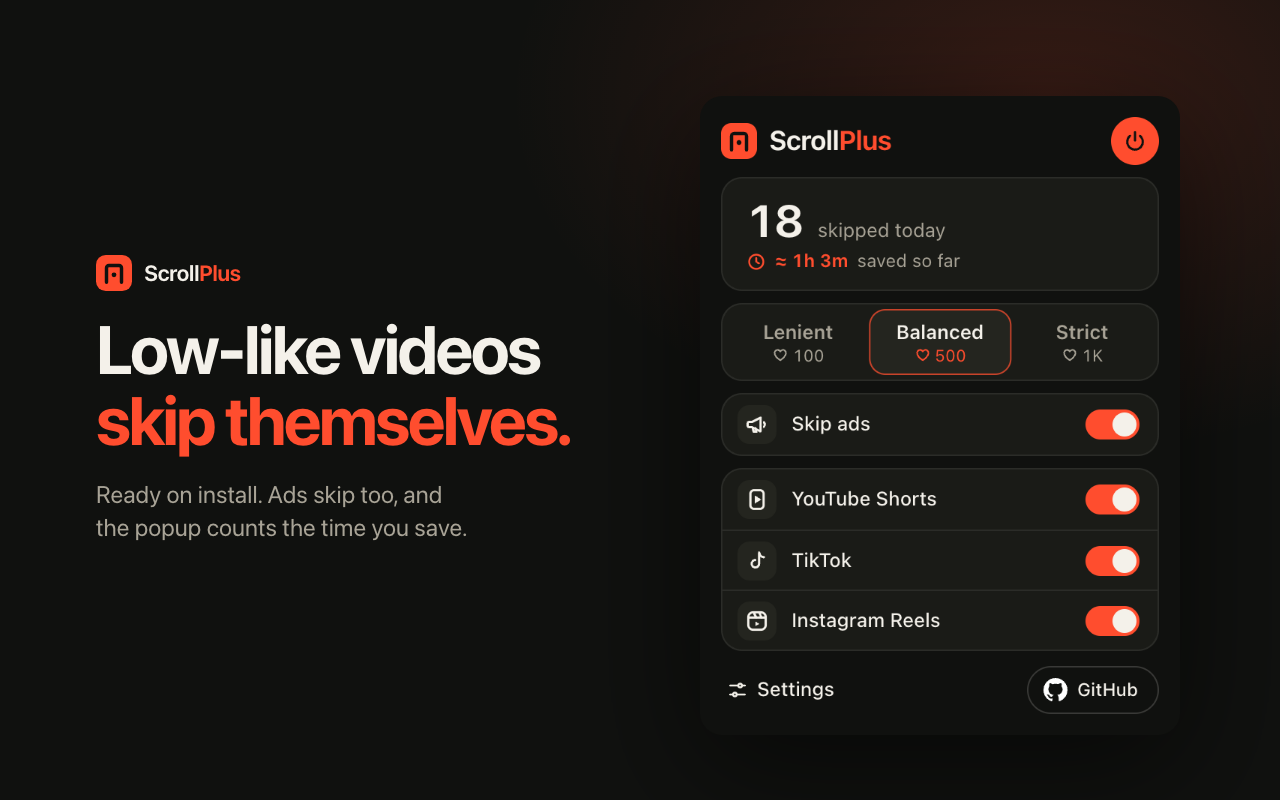
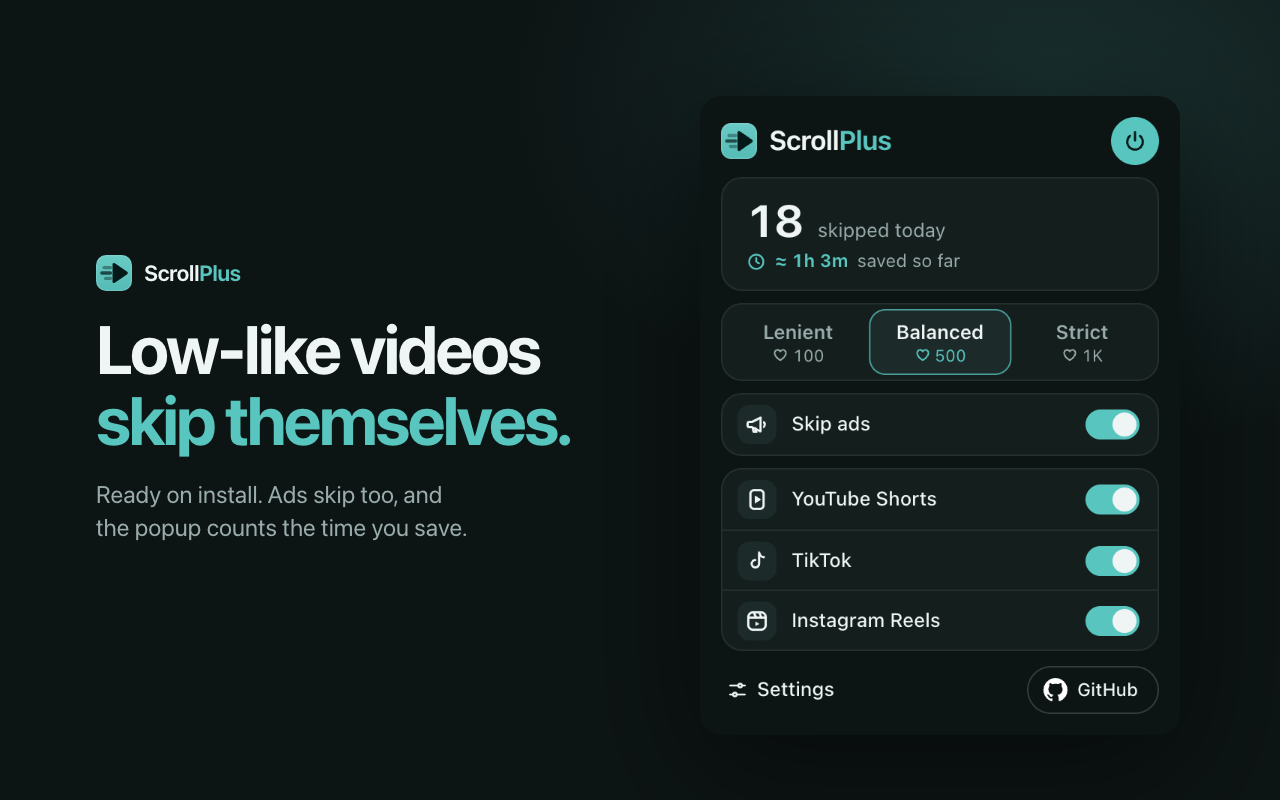
New mark and a calm teal accent picked at one lightness and chroma (0.6.0)
The mark is three streaks behind a play triangle in place of the door. The accent is teal at OKLCH 0.76 / 0.10 in place of the orange-red, and the dark surfaces take its hue. Skipping, settings, storage and permissions are unchanged.

diff --git a/src/ui/app.css b/src/ui/app.css
@@ -1,13 +1,15 @@
 :root {
-  --bg: #10110F;
-  --surface: #1A1B17;
-  --surface-2: #24251F;
-  --line: rgba(244, 241, 234, 0.08);
-  --line-strong: rgba(244, 241, 234, 0.18);
-  --text: #F4F1EA;
-  --muted: #A8A396;
-  --accent: #FF4D2E;
-  --accent-ink: #10110F;
+  --bg: #0D1414;
+  --surface: #131E1D;
+  --surface-2: #1C2B2A;
+  --line: rgba(238, 245, 244, 0.08);
+  --line-strong: rgba(238, 245, 244, 0.18);
+  --text: #EEF5F4;
+  --muted: #99ACAB;
+  --accent: #59C5BF;
+  --accent-hover: #6AD6CF;
+  --accent-rgb: 89, 197, 191;
+  --accent-ink: #031A19;
   --ease: cubic-bezier(0.2, 0.8, 0.2, 1);
   --t: 180ms;
   --font: ui-sans-serif, system-ui, -apple-system, "Apple SD Gothic Neo", "Segoe UI", sans-serif;
@@ -31,7 +33,7 @@ h1, h2, p { margin: 0; }
 .power { width: 32px; height: 32px; border-radius: 50%; border: 1px solid var(--line-strong); background: transparent; color: var(--muted); display: grid; place-items: center; transition: background var(--t) var(--ease), color var(--t) var(--ease), border-color var(--t) var(--ease); }
 .power:hover { border-color: var(--text); color: var(--text); }
 .power.on { background: var(--accent); border-color: var(--accent); color: var(--accent-ink); }
-.power.on:hover { background: #FF6446; border-color: #FF6446; color: var(--accent-ink); }
+.power.on:hover { background: var(--accent-hover); border-color: var(--accent-hover); color: var(--accent-ink); }
 .power.wide { display: inline-flex; align-items: center; justify-content: center; width: auto; padding: 0 14px 0 11px; gap: 7px; border-radius: 99px; height: 36px; font-size: 13px; font-weight: 600; white-space: nowrap; }
 
 .hero { display: flex; flex-direction: column; justify-content: center; gap: 5px; height: 76px; padding: 0 16px; background: var(--surface); border: 1px solid var(--line); border-radius: 14px; }
@@ -52,7 +54,7 @@ h1, h2, p { margin: 0; }
 .stats-note { color: var(--muted); font-size: 12px; line-height: 1.5; }
 
 .presets { position: relative; display: grid; grid-template-columns: repeat(3, 1fr); padding: 3px; background: var(--surface); border: 1px solid var(--line); border-radius: 14px; }
-.presets .thumb-slide { position: absolute; top: 3px; bottom: 3px; left: 3px; width: calc((100% - 6px) / 3); border-radius: 11px; background: var(--surface-2); box-shadow: inset 0 0 0 1px rgba(255, 77, 46, 0.75); transition: transform var(--t) var(--ease), opacity var(--t) var(--ease); pointer-events: none; }
+.presets .thumb-slide { position: absolute; top: 3px; bottom: 3px; left: 3px; width: calc((100% - 6px) / 3); border-radius: 11px; background: var(--surface-2); box-shadow: inset 0 0 0 1px rgba(var(--accent-rgb), 0.75); transition: transform var(--t) var(--ease), opacity var(--t) var(--ease); pointer-events: none; }
 .preset { position: relative; z-index: 1; height: 44px; border: 0; border-radius: 11px; background: none; color: var(--muted); display: flex; flex-direction: column; align-items: center; justify-content: center; gap: 3px; transition: color var(--t) var(--ease); }
 .preset:hover { color: var(--text); }
 .preset strong { font-size: 13px; font-weight: 600; line-height: 1; }
@@ -93,7 +95,7 @@ h1, h2, p { margin: 0; }
 
 .link { display: inline-flex; align-items: center; gap: 6px; min-height: 32px; padding: 6px 4px; border: 0; border-radius: 8px; background: none; font-size: 13px; font-weight: 500; transition: color var(--t) var(--ease); }
 .link:hover { color: var(--accent); }
-.badge { padding: 2px 7px; border-radius: 99px; background: rgba(255, 77, 46, 0.16); color: var(--accent); font-size: 11px; font-weight: 600; }
+.badge { padding: 2px 7px; border-radius: 99px; background: rgba(var(--accent-rgb), 0.16); color: var(--accent); font-size: 11px; font-weight: 600; }
 .github { display: inline-flex; align-items: center; gap: 7px; height: 32px; padding: 0 13px 0 10px; border: 1px solid var(--line-strong); border-radius: 99px; color: var(--text); text-decoration: none; font-size: 12px; font-weight: 500; transition: border-color var(--t) var(--ease), background var(--t) var(--ease); }
 /* GitHub asks for its mark in white or black, unchanged. */
 .github .icon { color: #fff; }

diff --git a/src/content/chip.ts b/src/content/chip.ts
@@ -11,21 +11,21 @@ const CSS = [
   ":host { all: initial; }",
   "*, *::before, *::after { box-sizing: border-box; }",
   // A dark body keeps the words readable on any video. The accent border and glow keep the chip itself visible on a dark one.
-  ".chip { position: relative; font: 600 15px/1.2 ui-sans-serif, system-ui, -apple-system, 'Apple SD Gothic Neo', 'Segoe UI', sans-serif; color: #F4F1EA; background: #10110F; border: 1.5px solid #FF4D2E; border-radius: 999px; padding: 8px 8px 8px 10px; display: flex; gap: 12px; align-items: center; box-shadow: 0 0 22px rgba(255, 77, 46, 0.5), 0 12px 30px rgba(0, 0, 0, 0.55); animation: in 120ms ease-out both; white-space: nowrap; }",
+  ".chip { position: relative; font: 600 15px/1.2 ui-sans-serif, system-ui, -apple-system, 'Apple SD Gothic Neo', 'Segoe UI', sans-serif; color: #EEF5F4; background: #0D1414; border: 1.5px solid #59C5BF; border-radius: 999px; padding: 8px 8px 8px 10px; display: flex; gap: 12px; align-items: center; box-shadow: 0 0 22px rgba(89, 197, 191, 0.4), 0 12px 30px rgba(0, 0, 0, 0.55); animation: in 120ms ease-out both; white-space: nowrap; }",
   // One ring that widens and fades when the chip appears, to catch the eye without moving the chip.
-  ".chip::after { content: ''; position: absolute; inset: -1.5px; border: 2px solid #FF4D2E; border-radius: inherit; pointer-events: none; animation: ping 700ms ease-out both; }",
+  ".chip::after { content: ''; position: absolute; inset: -1.5px; border: 2px solid #59C5BF; border-radius: inherit; pointer-events: none; animation: ping 700ms ease-out both; }",
   ".chip.leaving { animation: out 200ms ease-out both; }",
   ".chip.leaving::after { display: none; }",
   ".chip.stack { flex-direction: column; align-items: stretch; border-radius: 20px; padding: 14px; gap: 12px; white-space: normal; max-width: 300px; }",
-  ".dot { width: 28px; height: 28px; border-radius: 50%; background: #FF4D2E; color: #10110F; display: grid; place-items: center; flex: none; }",
+  ".dot { width: 28px; height: 28px; border-radius: 50%; background: #59C5BF; color: #031A19; display: grid; place-items: center; flex: none; }",
   ".dot svg { display: block; }",
   ".label { font-variant-numeric: tabular-nums; }",
   ".actions { display: flex; gap: 8px; }",
-  "button { font: inherit; font-weight: 600; color: #F4F1EA; background: rgba(244, 241, 234, 0.12); border: 0; border-radius: 999px; min-height: 34px; padding: 8px 15px; display: inline-flex; align-items: center; justify-content: center; gap: 6px; cursor: pointer; transition: background 180ms ease-out; }",
-  "button:hover { background: rgba(244, 241, 234, 0.18); }",
-  "button:focus-visible { outline: 2px solid #FF4D2E; outline-offset: 2px; }",
-  "button.primary { background: #FF4D2E; color: #10110F; }",
-  "button.primary:hover { background: #FF6446; }",
+  "button { font: inherit; font-weight: 600; color: #EEF5F4; background: rgba(238, 245, 244, 0.12); border: 0; border-radius: 999px; min-height: 34px; padding: 8px 15px; display: inline-flex; align-items: center; justify-content: center; gap: 6px; cursor: pointer; transition: background 180ms ease-out; }",
+  "button:hover { background: rgba(238, 245, 244, 0.18); }",
+  "button:focus-visible { outline: 2px solid #59C5BF; outline-offset: 2px; }",
+  "button.primary { background: #59C5BF; color: #031A19; }",
+  "button.primary:hover { background: #6AD6CF; }",
   "@keyframes in { from { opacity: 0; transform: scale(0.96); } to { opacity: 1; transform: none; } }",
   "@keyframes ping { from { inset: -1.5px; opacity: 0.85; } to { inset: -11px; opacity: 0; } }",
   "@keyframes out { from { opacity: 1; } to { opacity: 0; } }",
@@ -171,7 +171,7 @@ export function mountChip(actions: { undo: () => void; keepGoing: () => void; lo
       if (model.mode === "skipped") {
         const dot = document.createElement("span");
         dot.className = "dot";
-        dot.append(svgIcon("forward", 12));
+        dot.append(svgIcon("streak", 16));
         const label = document.createElement("span");
         label.className = "label";
         label.textContent = skippedLabel(model);

diff --git a/qa/screenshots/review-060/chip.html b/qa/screenshots/review-060/chip.html
@@ -1,0 +1,20 @@
+<style>:host { all: initial; }
+*, *::before, *::after { box-sizing: border-box; }
+.chip { position: relative; font: 600 15px/1.2 ui-sans-serif, system-ui, -apple-system, 'Apple SD Gothic Neo', 'Segoe UI', sans-serif; color: #EEF5F4; background: #0D1414; border: 1.5px solid #59C5BF; border-radius: 999px; padding: 8px 8px 8px 10px; display: flex; gap: 12px; align-items: center; box-shadow: 0 0 22px rgba(89, 197, 191, 0.4), 0 12px 30px rgba(0, 0, 0, 0.55); animation: in 120ms ease-out both; white-space: nowrap; }
+.chip::after { content: ''; position: absolute; inset: -1.5px; border: 2px solid #59C5BF; border-radius: inherit; pointer-events: none; animation: ping 700ms ease-out both; }
+.chip.leaving { animation: out 200ms ease-out both; }
+.chip.leaving::after { display: none; }
+.chip.stack { flex-direction: column; align-items: stretch; border-radius: 20px; padding: 14px; gap: 12px; white-space: normal; max-width: 300px; }
+.dot { width: 28px; height: 28px; border-radius: 50%; background: #59C5BF; color: #031A19; display: grid; place-items: center; flex: none; }
+.dot svg { display: block; }
+.label { font-variant-numeric: tabular-nums; }
+.actions { display: flex; gap: 8px; }
+button { font: inherit; font-weight: 600; color: #EEF5F4; background: rgba(238, 245, 244, 0.12); border: 0; border-radius: 999px; min-height: 34px; padding: 8px 15px; display: inline-flex; align-items: center; justify-content: center; gap: 6px; cursor: pointer; transition: background 180ms ease-out; }
+button:hover { background: rgba(238, 245, 244, 0.18); }
+button:focus-visible { outline: 2px solid #59C5BF; outline-offset: 2px; }
+button.primary { background: #59C5BF; color: #031A19; }
+button.primary:hover { background: #6AD6CF; }
+@keyframes in { from { opacity: 0; transform: scale(0.96); } to { opacity: 1; transform: none; } }
+@keyframes ping { from { inset: -1.5px; opacity: 0.85; } to { inset: -11px; opacity: 0; } }
+@keyframes out { from { opacity: 1; } to { opacity: 0; } }
+@media (prefers-reduced-motion: reduce) { .chip, .chip.leaving, .chip::after { animation-duration: 1ms; } }</style><div><div class="chip" data-mode="skipped" role="status"><span class="dot"><svg viewBox="0 0 16 16" width="16" height="16" fill="none" stroke="currentColor" stroke-width="1.5" stroke-linecap="round" stroke-linejoin="round" aria-hidden="true"><path d="M2.6 5.6h2.6"></path><path d="M1.8 8h3.4"></path><path d="M3.6 10.4h1.6"></path><path d="M7.6 3.6 13.6 8l-6 4.4Z" fill="currentColor" stroke="none"></path></svg></span><span class="label">넘김 · 좋아요 1.5만</span><button type="button"><svg viewBox="0 0 16 16" width="14" height="14" fill="none" stroke="currentColor" stroke-width="1.5" stroke-linecap="round" stroke-linejoin="round" aria-hidden="true"><path d="M5.4 3.2 2.8 5.8l2.6 2.6"></path><path d="M3 5.8h6.2a3.5 3.5 0 0 1 0 7H6.4"></path></svg>되돌리기</button></div></div>

diff --git a/src/ui/kit.tsx b/src/ui/kit.tsx
@@ -27,10 +27,21 @@ export function Wordmark() {
 export function Mark(props: { size?: number }) {
   const size = props.size ?? 22;
   return (
-    <svg className="mark" viewBox="0 0 24 24" width={size} height={size} aria-hidden="true">
-      <rect width="24" height="24" rx="7" fill="#FF4D2E" />
-      <path d="M7 18V8.6A1.6 1.6 0 0 1 8.6 7h6.8A1.6 1.6 0 0 1 17 8.6V18" fill="none" stroke="#10110F" strokeWidth="2.2" strokeLinecap="round" strokeLinejoin="round" />
-      <circle cx="12" cy="13" r="1.6" fill="#10110F" />
+    <svg className="mark" viewBox="0 0 32 32" width={size} height={size} aria-hidden="true">
+      <defs>
+        <linearGradient id="mark-tile" x1="0" y1="0" x2="0" y2="1">
+          <stop offset="0" style={{ stopColor: "color-mix(in srgb, var(--accent), white 10%)" }} />
+          <stop offset="1" style={{ stopColor: "color-mix(in srgb, var(--accent), black 5%)" }} />
+        </linearGradient>
+      </defs>
+      <rect width="32" height="32" rx="9" fill="url(#mark-tile)" />
+      {size > 22 ? <rect x="0.6" y="0.6" width="30.8" height="30.8" rx="8.4" fill="none" stroke="rgba(255,255,255,0.12)" strokeWidth="1.2" /> : null}
+      <g transform="translate(-.4 0)" style={{ stroke: "var(--accent-ink)", fill: "none" }} strokeWidth="3" strokeLinecap="round" strokeLinejoin="round">
+        <path d="M7.6 11.2H13.2" opacity="0.38" />
+        <path d="M5.6 16H13.2" opacity="0.7" />
+        <path d="M9 20.8H13.2" opacity="0.38" />
+        <path d="M16.4 8.4 27.4 16 16.4 23.6Z" strokeWidth="2.6" style={{ fill: "var(--accent-ink)" }} />
+      </g>
     </svg>
   );
 }

diff --git a/src/lib/icons.ts b/src/lib/icons.ts
@@ -1,6 +1,6 @@
 export type IconName =
   | "power" | "heart" | "comment" | "eye" | "youtube" | "tiktok" | "reels" | "sliders" | "github" | "grid"
-  | "pill" | "trash" | "plus" | "minus" | "reset" | "user" | "check" | "undo" | "forward" | "megaphone"
+  | "pill" | "trash" | "plus" | "minus" | "reset" | "user" | "check" | "undo" | "streak" | "megaphone"
   | "clock" | "chipTop" | "chipMiddle" | "chipLower" | "userCheck";
 
 export type Shape =
@@ -35,7 +35,8 @@ export const ICONS: Record<IconName, Shape[]> = {
   check: [p("m3.4 8.4 3 3 6.2-6.4")],
   userCheck: [c(5.8, 5.3, 2.15), p("M2.2 13.5c.35-2.15 1.7-3.4 3.6-3.4 1.05 0 1.95.38 2.55 1.05"), p("M10 9.7l1.55 1.55 2.85-3")],
   undo: [p("M5.4 3.2 2.8 5.8l2.6 2.6"), p("M3 5.8h6.2a3.5 3.5 0 0 1 0 7H6.4")],
-  forward: [p("M3.6 3.8 9 8l-5.4 4.2V3.8Z"), p("M12.4 3.4v9.2")],
+  // The mark: three streaks behind a play triangle.
+  streak: [p("M2.6 5.6h2.6"), p("M1.8 8h3.4"), p("M3.6 10.4h1.6"), p("M7.6 3.6 13.6 8l-6 4.4Z", true)],
   megaphone: [p("M2.6 6.2h2.2l5.6-2.8v9.2L4.8 9.8H2.6a.8.8 0 0 1-.8-.8V7a.8.8 0 0 1 .8-.8Z"), p("M5 9.9l.8 2.9h1.8l-.6-2.4"), p("M12.6 6.4a2.6 2.6 0 0 1 0 3.2")],
   clock: [c(8, 8, 5.8), p("M8 4.8V8l2.2 1.4")],
   // A video with the chip drawn as a short bar: high up, in the middle, low.

diff --git a/wxt.config.ts b/wxt.config.ts
@@ -9,7 +9,7 @@ export default defineConfig({
     short_name: '__MSG_appName__',
     description: '__MSG_extDesc__',
     default_locale: 'en',
-    version: "0.5.3",
+    version: "0.6.0",
     minimum_chrome_version: "120",
     permissions: ['storage'],
     host_permissions: [

diff --git a/SPEC.md b/SPEC.md
@@ -2,7 +2,7 @@
 
 This file is the product spec. Implement it. Do not add features that are not written here. If a rule is missing, leave the behavior out and record the gap in qa/gaps.md. Read this file before coding and again before calling the work done.
 
-Status: 0.5.3 beta. The follow signals accept the longer button labels the sites show (Subscribed to a channel, 구독중 inside a short label, Following, Unfollow) and ignore a caption that only mentions subscribing. YouTube no longer walks the large next and reel-sequence responses, and it does not resend an unchanged video. 0.5.2: Keep accounts I follow now covers YouTube and Instagram as well as TikTok. A video stays, even under the like bar, when the page already says the viewer subscribes or follows that creator. On YouTube that is subscriptionStateEntity.subscribed, or the older subscribeButtonRenderer.subscribed, and the visible Shorts button labelled 구독중 or Subscribed. On Instagram it is friendship_status.following, and the visible button labelled 팔로잉 or Following. On TikTok it remains author.relation 1 or 3. A missing answer is judged by counts. An ad is still skipped when Skip ads is on. No follow list is stored, and permissions are unchanged. 0.5.1 read TikTok only. 0.5.0: The presets are 100, 500 and 1,000 likes (they were 1,000, 5,000 and 20,000), and an install of 0.4.x keeps the preset it had, by name. Skip ads is on from the start. The skip chip sits at the top of the video, centred on it, with a dark body, an accent border and a glow, so that it is seen on a dark video as well, and Settings can move it to the middle or to a place low on the video above the caption. The popup shows an estimate of the time the skips have saved, and Settings shows today, the total and that estimate, with how it is made. The skipping itself is unchanged. 0.4.4: Settings opens in a tab of its own instead of the small dialog that chrome://extensions shows for an options page, and the GitHub button carries GitHub's mark in white instead of a star. Skipping is unchanged: the YouTube, TikTok and Instagram scripts differ from those of 0.4.3 only in the icon table they share with the popup. 0.4.3: On Instagram Reels a skipped reel is on screen for a median 0.32 s instead of 0.62 s (live, signed in, 20,000-like bar, the built Instagram scripts run in the page behind a stand-in for chrome.storage; qa/skip-timing-instagram.md): ScrollPlus waits 100 ms instead of 450 ms between skips, looks at the feed while it scrolls, and presses as soon as the reel is on screen enough. On TikTok the wait after a video arrives is 180 ms instead of 150 ms, because TikTok answers a press made sooner than about 0.16 s after an arrival 0.1 s late: the median skipped video is on screen for 0.31 s instead of 0.38 s (qa/skip-timing-tiktok.md). A person who scrolls Reels with a wheel or trackpad was not simulated. 0.4.2: on TikTok a skipped video is on screen for 0.48 s on average instead of 1.03 s (live, signed out, 20,000-like bar): ScrollPlus no longer presses a Next control that TikTok keeps disabled until it has the next video, waits 150 ms after a video arrives instead of 450 ms between skips, and leaves TikTok's sound alone because TikTok takes a mute made by a script as the person's own choice. A row of skips shows one chip. 0.4.1: on YouTube a Short that follows another skip is on screen for about 0.5 s instead of 0.8 s, a press the site does not act on is pressed again after 0.7 s instead of 2 s, and a Short that is being skipped is muted. Why the first skip stays at about half a second is in qa/skip-timing.md. A Skip ads switch, off by default, moves past an ad that fills the player on YouTube Shorts, TikTok and Instagram Reels. While grid filtering is off, pages are not rescanned for links. Instagram keeps disclosed advertisements and non-video cards. TikTok/Instagram publish only changed rows and active-player data; unchanged embedded payloads are not reparsed. Undo now survives reloads and new tabs for the browser session; Reset clears those temporary choices. Bounded 0.3.5 signed-in default filtering and TikTok Undo/reload/Reset were observed in Aside Chromium 153; earlier 0.3.3/0.3.4 paths retain their own package scope. The exact-0.3.5 automated 24-hour YouTube run completed with two reviewed page-reload recoveries. Current Instagram Undo/reload, broader signed-in Google Chrome, positive-path live Following and ordinary human day-use remain open. See qa/session-undo.md and qa/release-readiness.md. Decisions below are locked.
+Status: 0.6.0 beta. The look changed: the accent is a calm teal in place of the orange-red, the surfaces take its hue, and the mark is three streaks behind a play triangle in place of the door. How a video is judged and skipped is unchanged. 0.5.3: The follow signals accept the longer button labels the sites show (Subscribed to a channel, 구독중 inside a short label, Following, Unfollow) and ignore a caption that only mentions subscribing. YouTube no longer walks the large next and reel-sequence responses, and it does not resend an unchanged video. 0.5.2: Keep accounts I follow now covers YouTube and Instagram as well as TikTok. A video stays, even under the like bar, when the page already says the viewer subscribes or follows that creator. On YouTube that is subscriptionStateEntity.subscribed, or the older subscribeButtonRenderer.subscribed, and the visible Shorts button labelled 구독중 or Subscribed. On Instagram it is friendship_status.following, and the visible button labelled 팔로잉 or Following. On TikTok it remains author.relation 1 or 3. A missing answer is judged by counts. An ad is still skipped when Skip ads is on. No follow list is stored, and permissions are unchanged. 0.5.1 read TikTok only. 0.5.0: The presets are 100, 500 and 1,000 likes (they were 1,000, 5,000 and 20,000), and an install of 0.4.x keeps the preset it had, by name. Skip ads is on from the start. The skip chip sits at the top of the video, centred on it, with a dark body, an accent border and a glow, so that it is seen on a dark video as well, and Settings can move it to the middle or to a place low on the video above the caption. The popup shows an estimate of the time the skips have saved, and Settings shows today, the total and that estimate, with how it is made. The skipping itself is unchanged. 0.4.4: Settings opens in a tab of its own instead of the small dialog that chrome://extensions shows for an options page, and the GitHub button carries GitHub's mark in white instead of a star. Skipping is unchanged: the YouTube, TikTok and Instagram scripts differ from those of 0.4.3 only in the icon table they share with the popup. 0.4.3: On Instagram Reels a skipped reel is on screen for a median 0.32 s instead of 0.62 s (live, signed in, 20,000-like bar, the built Instagram scripts run in the page behind a stand-in for chrome.storage; qa/skip-timing-instagram.md): ScrollPlus waits 100 ms instead of 450 ms between skips, looks at the feed while it scrolls, and presses as soon as the reel is on screen enough. On TikTok the wait after a video arrives is 180 ms instead of 150 ms, because TikTok answers a press made sooner than about 0.16 s after an arrival 0.1 s late: the median skipped video is on screen for 0.31 s instead of 0.38 s (qa/skip-timing-tiktok.md). A person who scrolls Reels with a wheel or trackpad was not simulated. 0.4.2: on TikTok a skipped video is on screen for 0.48 s on average instead of 1.03 s (live, signed out, 20,000-like bar): ScrollPlus no longer presses a Next control that TikTok keeps disabled until it has the next video, waits 150 ms after a video arrives instead of 450 ms between skips, and leaves TikTok's sound alone because TikTok takes a mute made by a script as the person's own choice. A row of skips shows one chip. 0.4.1: on YouTube a Short that follows another skip is on screen for about 0.5 s instead of 0.8 s, a press the site does not act on is pressed again after 0.7 s instead of 2 s, and a Short that is being skipped is muted. Why the first skip stays at about half a second is in qa/skip-timing.md. A Skip ads switch, off by default, moves past an ad that fills the player on YouTube Shorts, TikTok and Instagram Reels. While grid filtering is off, pages are not rescanned for links. Instagram keeps disclosed advertisements and non-video cards. TikTok/Instagram publish only changed rows and active-player data; unchanged embedded payloads are not reparsed. Undo now survives reloads and new tabs for the browser session; Reset clears those temporary choices. Bounded 0.3.5 signed-in default filtering and TikTok Undo/reload/Reset were observed in Aside Chromium 153; earlier 0.3.3/0.3.4 paths retain their own package scope. The exact-0.3.5 automated 24-hour YouTube run completed with two reviewed page-reload recoveries. Current Instagram Undo/reload, broader signed-in Google Chrome, positive-path live Following and ordinary human day-use remain open. See qa/session-undo.md and qa/release-readiness.md. Decisions below are locked.
 
 ## Product
 
@@ -33,7 +33,7 @@ The locale files hold two strings: extName is the manifest name and the store ti
 - Local directory: /Users/jeongjin/Developer/edgethink/kept (keeps its old name)
 - Public GitHub repo: github.com/jeongjin0/scrollplus
 - License: MIT
-- Version: 0.5.3
+- Version: 0.6.0
 - Do not put this project in the Obsidian vault
 - Do not submit it to the Chrome Web Store
 
@@ -233,19 +233,21 @@ The GitHub button shows GitHub's own mark in white (Octicons mark-github, MIT, c
 
 ## Visual system
 
-- Background #10110F
-- Surface #1A1B17, raised surface #24251F
-- Text #F4F1EA
-- Muted text #A8A396
-- Accent #FF4D2E, used for the mark, "Plus" in the wordmark, the on state, the active preset, and the skip chip
+- Background #0D1414
+- Surface #131E1D, raised surface #1C2B2A
+- Text #EEF5F4
+- Muted text #99ACAB
+- Accent #59C5BF (teal, OKLCH lightness 0.76, chroma 0.10, hue 190), used for the mark, "Plus" in the wordmark, the on state, the active preset, and the skip chip. Hover is #6AD6CF. Ink on the accent is #031A19.
+
+The colors come from one hue. Every surface, the text and the accent are the same hue at different lightness and a very low chroma, and the accent has the lightness and chroma of every other candidate hue that was compared (qa/color-study.md). That keeps the accent from shouting against the dark surface, which the old #FF4D2E did. The accent is one set of CSS variables (--accent, --accent-hover, --accent-rgb, --accent-ink), so another hue changes in one place.
 
 Cards have 14px corners. Controls are at least 32px tall in the popup and 34px in options. Every control has a visible keyboard focus ring and an accessible name. Icons are one set, drawn on a 16px grid with a 1.5px stroke. The GitHub mark is GitHub's own filled mark on the same grid and is never recoloured. No purple gradients, glassmorphism, or runtime web fonts. UI text uses ui-sans-serif.
 
-The skip chip has a dark body (#10110F) with cream text (#F4F1EA) at 15px and weight 600, a 1.5px accent border, an accent glow (0 0 22px at 50%) and a 28px accent dot. The dark body keeps the words readable on a bright video, and the border and the glow keep the chip itself visible on a dark one. Its buttons are at least 34px tall. When the chip appears, one accent ring widens and fades over 700ms.
+The skip chip has a dark body (#0D1414) with light text (#EEF5F4) at 15px and weight 600, a 1.5px accent border, an accent glow (0 0 22px at 40%) and a 28px accent dot. The dark body keeps the words readable on a bright video, and the border and the glow keep the chip itself visible on a dark one. Its buttons are at least 34px tall. When the chip appears, one accent ring widens and fades over 700ms.
 
 Motion is ease-out, about 180ms. The preset highlight slides between choices. The skip chip fades in over 120ms (from 96% to full size) and out over 200ms. No bounce. Reduced motion shortens every transition.
 
-The app mark is a rounded square in the accent color with a door-like frame and a dot. It is recognizable at 16px. Generate 16, 32, 48, and 128 sizes from that mark with scripts/render-icons.mjs.
+The app mark is a rounded square in the accent color (a soft light-to-dark gradient, and a thin light rim above 22 px) holding three streaks of unequal strength behind a play triangle, in the ink color. The streaks say a video was passed, the triangle says the next one. It is drawn on a 32 grid with round ends, heavier below 24 px, and it is recognizable at 16px. The skip chip's dot carries the same drawing. Generate 16, 32, 48, and 128 sizes from that mark with scripts/render-icons.mjs.
 
 Store screenshots are original compositions made from the real popup, options page, and skip chip. Do not copy the YouTube, TikTok, or Instagram logos or interfaces, and do not imply affiliation.
 

diff --git a/qa/release-readiness.md b/qa/release-readiness.md
@@ -1,27 +1,30 @@
-# Release readiness · 0.5.3
+# Release readiness · 0.6.0
 
-Checked on 2026-10-12 KST, macOS ARM64. This pass hardens the subscribe and follow reading and cuts repeated work on YouTube. The popup and settings look are unchanged. Permissions are unchanged. Chrome Web Store submission has not occurred.
+Checked on 2026-10-13 KST, macOS ARM64. This candidate changes the look only: the accent is a calm teal (#59C5BF) in place of the orange-red, the surfaces, text and borders take its hue, and the mark is three streaks behind a play triangle in place of the door. How a video is judged and skipped is unchanged. Settings, storage and permissions are unchanged. Chrome Web Store submission has not occurred.
 
 | Check | Result | Evidence / scope |
 | --- | --- | --- |
 | TypeScript | Pass | tsc --noEmit |
-| Unit tests | 110 passed | npm test. Added labels: Subscribed to a channel, 구독중 inside a short label, subscribers ignored, Following creator, Unfollow |
-| Built-script browser tests | 66 passed | npx playwright test, including the YouTube, TikTok and Instagram keep-followed routes |
-| Popup and settings | Looked at | Korean and English popup, 426 px, no scroll. Settings at 1440 px and 420 px. The follow row fits at 420 px. See [ui review](ui-review.md) |
-| Live chip | Looked at | Signed-out YouTube Shorts, built extension, one skip chip "넘김 · 광고" centred on the video. Not a signed-in follow check |
-| Package | Pass | npm run zip and node scripts/check-package.mjs. scrollplus-0.5.3-chrome.zip, 139,866 bytes |
-| Minimum Chrome 120 | Pass | [CI](https://github.com/jeongjin0/scrollplus/actions/runs/38251222810) and [CI](https://github.com/jeongjin0/scrollplus/actions/runs/38251242208). Chrome for Testing 120 and current Chromium. |
+| Unit tests | 110 passed | npm test |
+| Built-script browser tests | 66 run, flaky starts only | npx playwright test: 63 passed and 3 failed on the first run, and every failure was the browser failing to start with the extension or a timeout while the machine was busy. The three, run again, passed (two as part of their spec files, one alone). CI runs them on a clean machine |
+| Popup and settings page | Looked at | Korean and English popup, 426 px, no scroll. Settings at 1440 px and 420 px. See [ui review](ui-review.md) |
+| Live skip chip | Looked at | Signed-out YouTube Shorts, built extension, one skip chip with the new dot, centred on the video, readable over a bright title card |
+| Toolbar icon and store images | Looked at | public/icon 16, 32, 48 and 128 and the store images were rendered again from the new mark and colors |
+| Color | Studied | Nine hues at one lightness and chroma, [color study](color-study.md) |
+| Package | Pass | npm run zip and node scripts/check-package.mjs. scrollplus-0.6.0-chrome.zip, 145,128 bytes |
+| Minimum Chrome 120 | Pending CI | The pull request runs the suite on Chrome 120. The new tile gradient uses color-mix, available from Chrome 111 |
 | Chrome Web Store | Not submitted | Owner decision |
 
 ## Artifact
 
-scrollplus-0.5.3-chrome.zip, 139,866 bytes.
+scrollplus-0.6.0-chrome.zip, 145,128 bytes.
 
-SHA-256: ebe3c03548e8f9b76b51f06def5072a911b24698a48ea7f1ac5472dd45d038e2.
+SHA-256: 3043203158f358bf18ba499d68803d0c35f23f5627d69c08c918425837ee4f08.
 
-The 0.5.2 report is in [release readiness 0.5.2](release-readiness-052.md).
+The 0.5.3 report is in [release readiness 0.5.3](release-readiness-053.md).
 
 ## Remaining gates
 
-1. On a signed-in YouTube, TikTok and Instagram, confirm a subscribed or followed creator stays under the like bar.
-2. The earlier gates stand: a full day of human use, a live Instagram ad, and wheel or trackpad scrolling.
+1. The owner picks the hue. Teal is a recommendation from nine candidates, and the hue is one set of CSS variables.
+2. The chip over many kinds of video, and the accent on other displays, were not checked.
+3. The gates of 0.5.x stand: a signed-in check of subscribe and follow, a full day of use, a live Instagram ad.

diff --git a/qa/ui-review.md b/qa/ui-review.md
@@ -1,21 +1,17 @@
-# UI review · 0.5.3
+# UI review · 0.6.0
 
-Captured 2026-10-12 from the built extension, Korean and English, at the browser language. Popup height was 426 px in both languages. The settings page was captured at 1440 px and at 420 px. The skip chip was captured on a live signed-out YouTube Shorts page with the built extension.
+Captured 2026-10-13 from the built extension. Popup height 426 px in both languages. Settings at 1440 px and 420 px. The skip chip on a live signed-out YouTube Short.
+
+## What changed
+
+The accent moved from #FF4D2E, about twice as saturated as everything around it, to a teal at the same lightness and chroma as every other candidate hue. The dark surfaces, text and borders lean the same way by a very small amount. The mark is now three streaks of unequal strength behind a play triangle: videos passed, then the next one. The toolbar icon, the popup and settings header, the chip's dot and the store images use it.
 
 ## What holds
 
-The popup is one screen. Power, today's count, the time-saved estimate, the three presets with their like counts, Skip ads, the three sites, Settings and GitHub. Nothing scrolls. The Korean preset row reads 느슨 100, 기본 500, 엄격 1천.
-
-Settings is one column. Rules, sites, behavior, creators, reset. The new row "구독·팔로우 중인 계정은 유지" fits on a 420 px width with its switch, and the number fields drop under their labels there. The chip position control shows 위, 가운데, 아래, with 위 selected. The empty creator list says to add one from the popup. GitHub is the mark plus the word, not a star.
-
-On a live Short the chip sat on the video, centred, and read "넘김 · 광고" with 되돌리기. It stayed readable on a bright title card. That page was signed out, so the subscribe button said 구독 and the follow rule was not the thing being shown.
-
-## What this pass changed
-
-0.5.3 does not restyle the popup or settings. It hardens the follow signals and does less repeated work. Longer labels now count: "Subscribed to …", a short label containing 구독중, "Following …", and Unfollow. A caption that only mentions subscribing still does not. YouTube no longer parses the large sequence and next responses, and it does not resend a video whose counts and follow flag are unchanged. Instagram looks for the follow button beside the reel instead of every button on the page.
+The popup is still one screen with nothing to scroll. Settings is one column and its rows keep their layout at 420 px. The chip stays centred on the video and readable over a bright title card.
 
 ## Still open
 
-A signed-in YouTube, TikTok and Instagram were not available in the browser used for this capture. Whether a channel you actually subscribe to stays under the like bar is still the open check. The chip was seen on the wide Shorts layout, not inside the narrow full-height player.
+Other hues, and how the accent reads on displays other than the one used for these captures. A signed-in check of subscribe and follow.
 
-Images: [popup, Korean](screenshots/review-053/popup-ko.png), [settings, Korean](screenshots/review-053/options-1440-ko.png), [settings at 420 px](screenshots/review-053/options-420-ko.png), [skip chip on a Short](screenshots/review-053/real.png). English copies sit beside them.
+Images: [popup, Korean](screenshots/review-060/popup-ko.png), [settings](screenshots/review-060/options-1440-ko.png), [settings at 420 px](screenshots/review-060/options-420-ko.png), [skip chip](screenshots/review-060/real.png).

diff --git a/qa/color-study.md b/qa/color-study.md
@@ -1,0 +1,30 @@
+# Color study · 0.6.0
+
+The accent before 0.6.0 was #FF4D2E. Measured in OKLCH it sits at lightness 0.65 and chroma 0.23, about twice the chroma of any color around it, so the on state, the active preset and the skip chip shouted on the dark surface. Earlier candidates (0.5.x review pages) were mixed by eye and differed in strength, so they could not be compared fairly.
+
+## Method
+
+Nine hues were compared at one lightness and one chroma, so no candidate is stronger than another to the eye: lightness 0.76, chroma 0.10, hue 28 (coral), 58 (copper), 88 (sand), 125 (moss), 158 (green), 190 (teal), 232 (sky), 272 (indigo) and 322 (orchid). The page also let the chroma move between 0.075, 0.10 and 0.135 and the lightness between 0.70, 0.76 and 0.82. The surfaces, the text and the border are the same hue at a chroma of 0.008 to 0.022, so the dark theme leans toward the accent without coloring it.
+
+## Choice
+
+Teal, hue 190, lightness 0.76, chroma 0.10, is the default of 0.6.0.
+
+| Role | Value | OKLCH |
+| --- | --- | --- |
+| Background | #0D1414 | 0.185, 0.012 |
+| Surface | #131E1D | 0.225, 0.016 |
+| Raised surface | #1C2B2A | 0.275, 0.020 |
+| Text | #EEF5F4 | 0.965, 0.008 |
+| Muted text | #99ACAB | 0.73, 0.022 |
+| Accent | #59C5BF | 0.76, 0.10 |
+| Accent hover | #6AD6CF | 0.81, 0.10 |
+| Ink on the accent | #031A19 | 0.20, 0.03 |
+
+Why teal: it is the quietest of the hues that still reads as a switch that is on, it keeps the skip chip visible on a dark and on a bright video, and it is not the color of YouTube (red) or Instagram (an orange to purple gradient). It is close to the cyan in TikTok's logo, which is a mild overlap. Sky and indigo are also calm; sky is the most common color for a tool, and indigo is dimmer on dark videos.
+
+The accent lives in a handful of CSS variables in src/ui/app.css and in one block of the chip's stylesheet, so changing the hue is one edit in each place.
+
+## Not established
+
+Contrast of the chip over a very bright video was looked at on one YouTube Short and one TikTok video, not on every video. The accent was judged on a monitor in a lit room, not on other displays.

diff --git a/qa/release-readiness-053.md b/qa/release-readiness-053.md
@@ -1,0 +1,27 @@
+# Release readiness · 0.5.3
+
+Checked on 2026-10-12 KST, macOS ARM64. This pass hardens the subscribe and follow reading and cuts repeated work on YouTube. The popup and settings look are unchanged. Permissions are unchanged. Chrome Web Store submission has not occurred.
+
+| Check | Result | Evidence / scope |
+| --- | --- | --- |
+| TypeScript | Pass | tsc --noEmit |
+| Unit tests | 110 passed | npm test. Added labels: Subscribed to a channel, 구독중 inside a short label, subscribers ignored, Following creator, Unfollow |
+| Built-script browser tests | 66 passed | npx playwright test, including the YouTube, TikTok and Instagram keep-followed routes |
+| Popup and settings | Looked at | Korean and English popup, 426 px, no scroll. Settings at 1440 px and 420 px. The follow row fits at 420 px. See [ui review](ui-review.md) |
+| Live chip | Looked at | Signed-out YouTube Shorts, built extension, one skip chip "넘김 · 광고" centred on the video. Not a signed-in follow check |
+| Package | Pass | npm run zip and node scripts/check-package.mjs. scrollplus-0.5.3-chrome.zip, 139,866 bytes |
+| Minimum Chrome 120 | Pass | [CI](https://github.com/jeongjin0/scrollplus/actions/runs/38251222810) and [CI](https://github.com/jeongjin0/scrollplus/actions/runs/38251242208). Chrome for Testing 120 and current Chromium. |
+| Chrome Web Store | Not submitted | Owner decision |
+
+## Artifact
+
+scrollplus-0.5.3-chrome.zip, 139,866 bytes.
+
+SHA-256: ebe3c03548e8f9b76b51f06def5072a911b24698a48ea7f1ac5472dd45d038e2.
+
+The 0.5.2 report is in [release readiness 0.5.2](release-readiness-052.md).
+
+## Remaining gates
+
+1. On a signed-in YouTube, TikTok and Instagram, confirm a subscribed or followed creator stays under the like bar.
+2. The earlier gates stand: a full day of human use, a live Instagram ad, and wheel or trackpad scrolling.

diff --git a/CHANGELOG.md b/CHANGELOG.md
@@ -1,5 +1,12 @@
 # Changelog
 
+## 0.6.0 – 2026-10-13
+
+- New look. The accent is a calm teal instead of the orange-red, and the dark surfaces, text and borders share its hue. The old accent was about twice as saturated as the surfaces around it and shouted. The new one is picked at one lightness and one chroma, so no other hue would have looked stronger (the comparison is in [qa/color-study.md](qa/color-study.md)).
+- New mark. Three streaks of unequal strength run behind a play triangle: videos passed, and the next one. It replaces the door. The toolbar icon, the popup and settings header, the skip chip's dot and the store images use it.
+- How a video is judged and skipped is unchanged. Settings, storage and permissions are unchanged.
+
+
 ## 0.5.3 – 2026-10-12
 
 - Hardened the subscribe and follow buttons. A Short labelled "Subscribed to …" or "…구독중", and a Reel labelled "Following …" or "Unfollow", now counts. A caption that merely mentions subscribing still does not.
